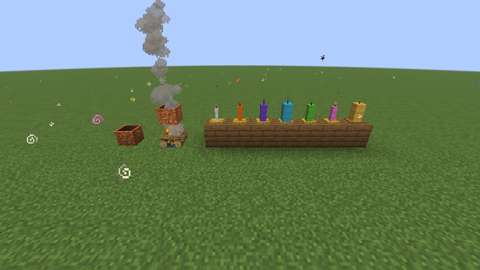
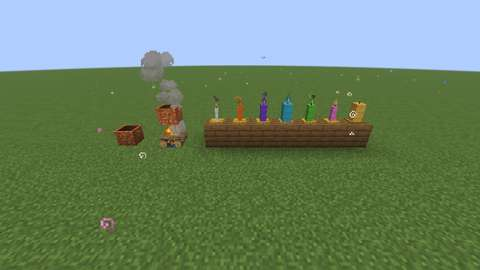
Chandlery: record CI results and the new flame screenshots
Claude-Session: https://claude.ai/code/session_0126hvNUCuThWzVv935m75NC

diff --git a/docs/features/fall-additions.md b/docs/features/fall-additions.md
@@ -147,9 +147,9 @@ Actual results (2 October 2026, Minecraft 26.3, Fabric Loader 0.19.3, Fabric API
 | --- | --- |
 | `python3 scripts/check_repository.py` | Pass |
 | `python3 tools/check_mod_data.py` (now also compares the chandlery's numbers, waxes and scents with Java: capacity, timings, scent limit, burn factors, layers, pulse and effect time, harvest divisor, radii and light by layers, each wax's measures, burn and colour, each scent's effect and colour; checks every wax and scent tag, and the brightener and extender tags, hold `tools/agriculture.py`'s items; that the candle's blockstate has a variant for every state; and that every pot message, candle tooltip, candle name, wax and scent has its words) | Pass, 581 IDs |
-| `./gradlew build` (Build workflow) | PENDING |
-| Game tests on the headless server, same run | PENDING |
-| Client game test (real client, Mesa software rendering, CI job `client`) | PENDING |
+| `./gradlew build` on `1cdcf09` (Build workflow run 37021364812) | Pass on its second attempt (see the next row) |
+| Game tests on the headless server, same run: 336 in total, 8 of them new here (`ChandleryGameTests`) | **All 336 pass** on the second attempt. The first attempt failed one test from `main`, `PetroGameTests.heliostatsHeatASolarReceiver` ("The receiver made 48 JE/t, expected 36 on tick 25"), which this branch doesn't touch; the same tests had all passed on `f56071b` (run 37020041265), and the failed job was re-run once |
+| Client game test (real client, Mesa software rendering, CI job `client`) | **Passes** on `1cdcf09`, with the screenshots above. No model or texture errors for the chandlery in the log |
 
 The 8 new game tests (`ChandleryGameTests`):
 1. honeycomb melts over a campfire and stays set on stone; a pot of beeswax takes no tallow;
@@ -165,6 +165,8 @@ Found by CI and fixed before this record:
 - 26.3's `LivingEntity.drop` takes a third argument; a candle that doesn't fit in the inventory pops out of the pot instead (`e61fa32`).
 - 26.3 has no `RenderTypes.entityCutoutNoCull`; the renderers use `entityCutout`, wind each face to face along its normal, and draw a flame's plane from both sides (`7ee4afb`).
 - 26.3's entity types are constants of `EntityTypes`, not `EntityType` (`5935bc2`).
+- A test swapped the glowstone dust in hand for redstone before counting it (a test bug, not the pot's); each is now checked while it is held (`f56071b`).
+- The first screenshots showed the flames as thin slivers in the scent's colour, lost against wax of the same colour; they are now about twice the size with a warm-white heart (`1cdcf09`).
 
 **Not run:**
 - a person playing it in a client: dipping by hand, watching the cooldown, walking in and out of an aura;
